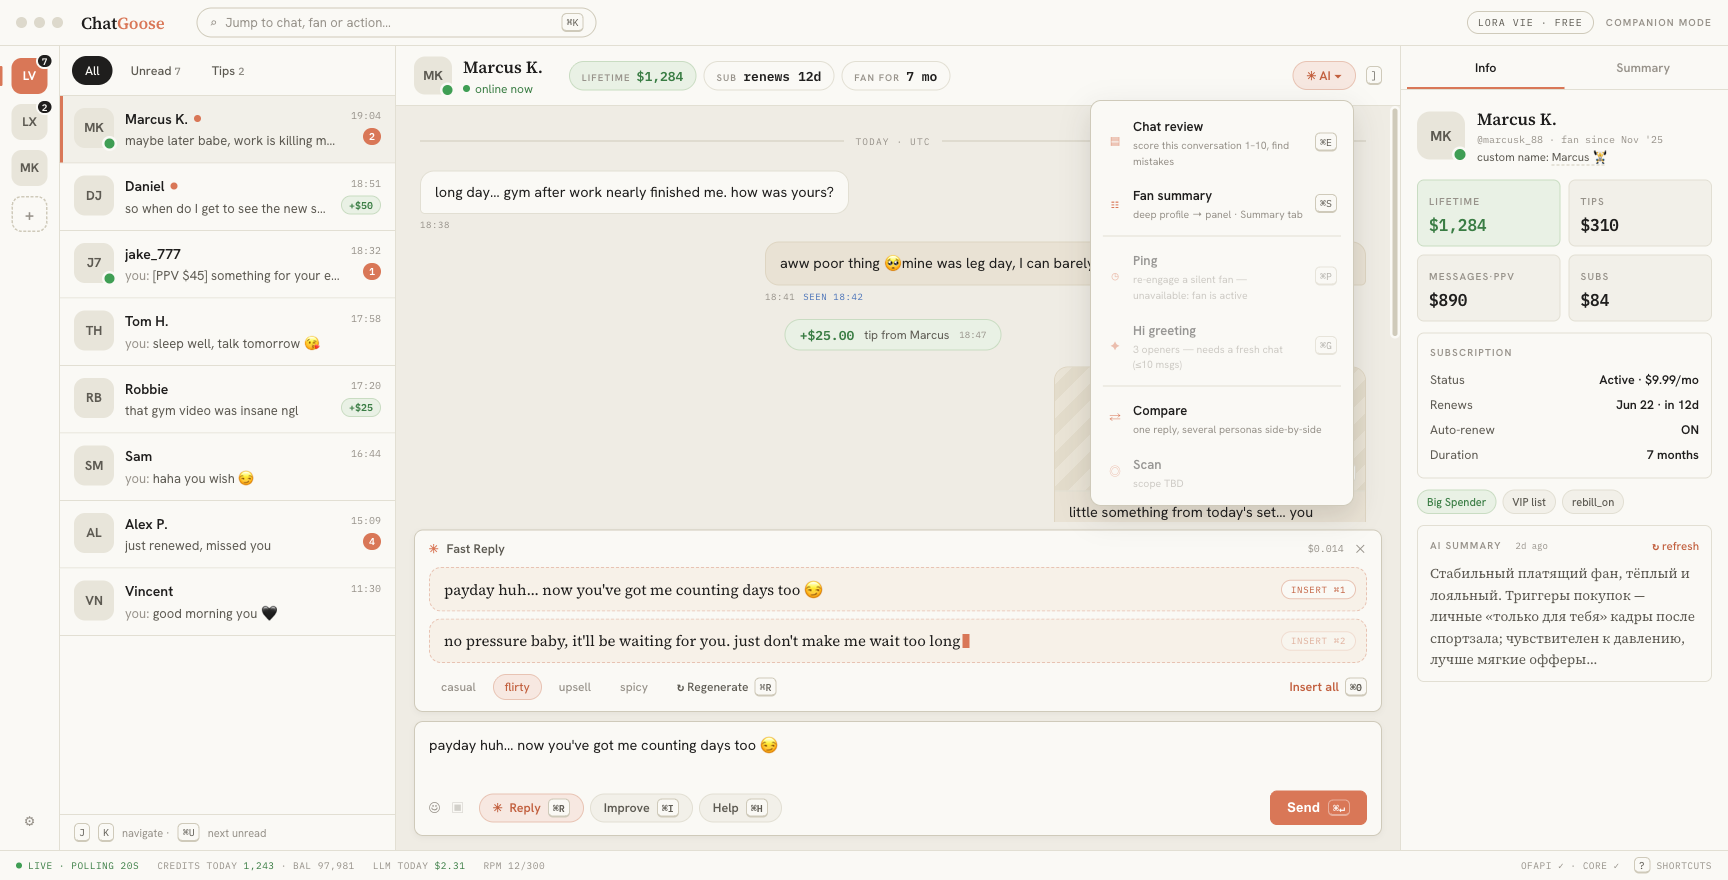
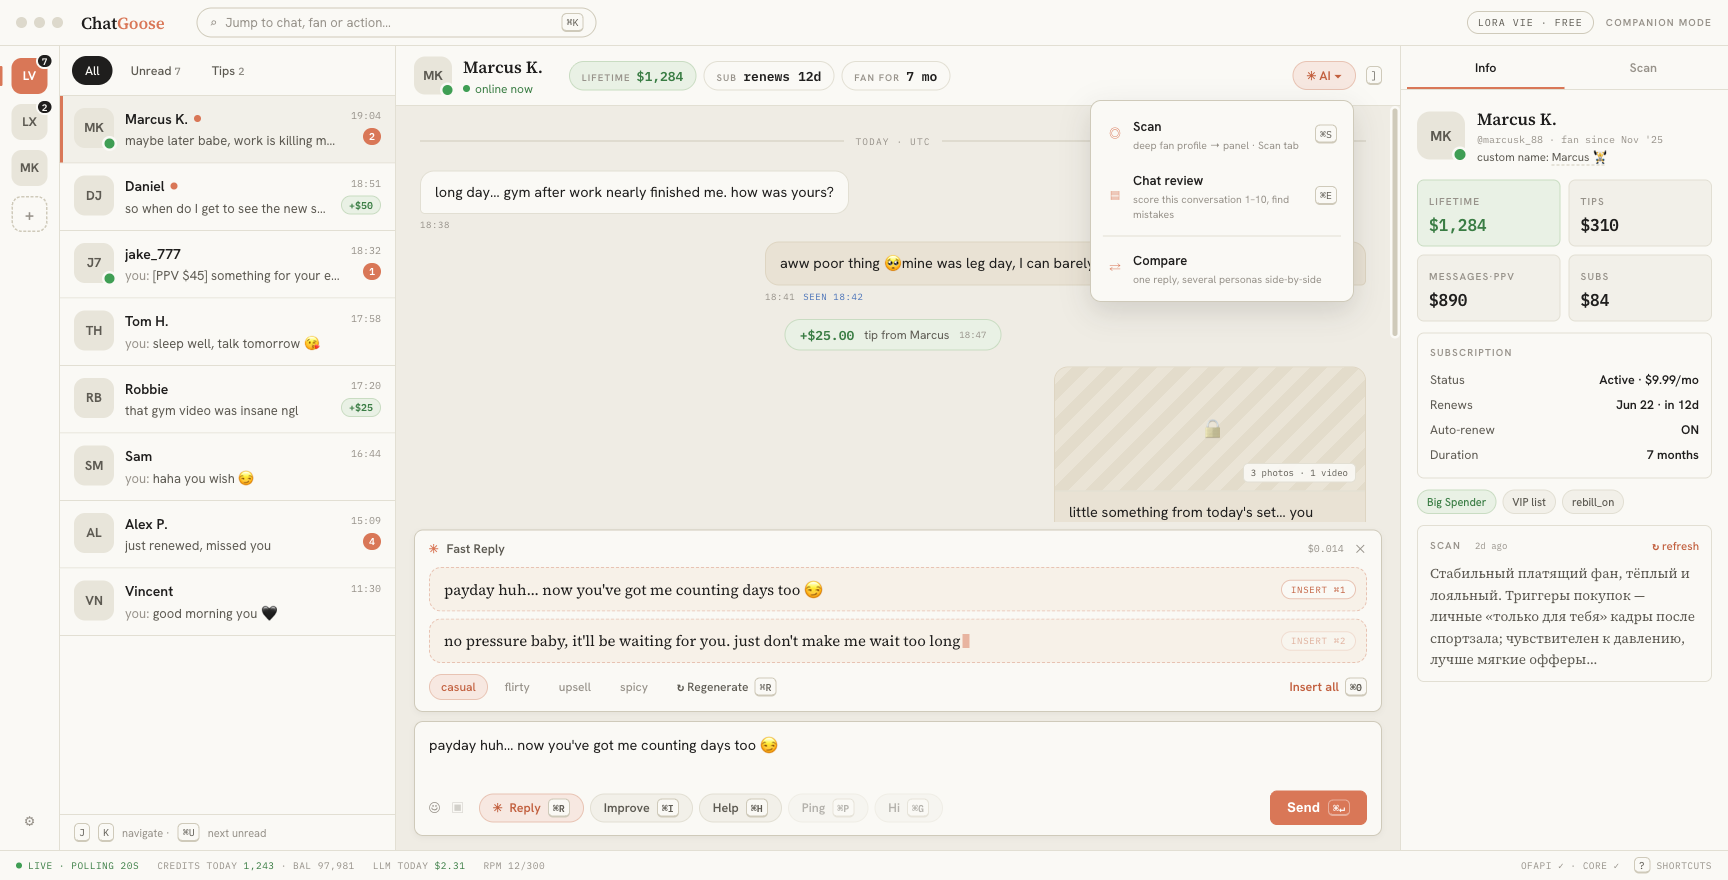
Ping/Hi back into the composer row; AI menu = rare-only; Scan naming adopted
Owner: Ping and Hi are frequent actions - now permanent composer pills
(dimmed with tooltip reason when legacy gates make them inapplicable).
Header AI menu shrinks to rare/deep: Scan, Chat review, Compare.
Scan mystery solved: it is the legacy UI label for fan-summary
(chatgoose src/content/button-bar.ts:10) - adopted as the UI name
(panel tab + card + menu); usage events still report 'fan-summary'.

diff --git a/docs/mockups/workspace.html b/docs/mockups/workspace.html
@@ -237,6 +237,8 @@
     border-radius:999px; padding:4px 13px; cursor:pointer}
   .aibtn:hover{color:var(--clay-deep); border-color:var(--clay-line); background:var(--clay-bg)}
   .aibtn.primary{color:var(--clay-deep); border-color:var(--clay-line); background:var(--clay-bg)}
+  .aibtn.dim{opacity:.45; cursor:default}
+  .aibtn.dim:hover{color:var(--t-mid); border-color:var(--line); background:var(--bg2)}
   .aibtn i{font-style:normal}
   .send{margin-left:auto; display:flex; align-items:center; gap:8px; background:var(--clay);
     color:#fff; font-weight:700; font-size:13.5px; border:1px solid var(--clay); border-radius:var(--rs);
@@ -416,16 +418,12 @@
         <div class="ch-actions"><span class="ai-menu-btn">✳ AI ▾</span><kbd>]</kbd></div>
       </header>
 
-      <!-- AI features menu (shown open for the mockup) -->
+      <!-- AI menu: rare/deep actions only (shown open for the mockup) -->
       <div class="ai-menu">
+        <div class="ai-item"><span class="gl">◎</span><span><span class="tt">Scan</span><span class="sub">deep fan profile → panel · Scan tab</span></span><kbd>⌘S</kbd></div>
         <div class="ai-item"><span class="gl">▤</span><span><span class="tt">Chat review</span><span class="sub">score this conversation 1–10, find mistakes</span></span><kbd>⌘E</kbd></div>
-        <div class="ai-item"><span class="gl">☷</span><span><span class="tt">Fan summary</span><span class="sub">deep profile → panel · Summary tab</span></span><kbd>⌘S</kbd></div>
-        <div class="ai-sep"></div>
-        <div class="ai-item dim"><span class="gl">◷</span><span><span class="tt">Ping</span><span class="sub">re-engage a silent fan — unavailable: fan is active</span></span><kbd>⌘P</kbd></div>
-        <div class="ai-item dim"><span class="gl">✦</span><span><span class="tt">Hi greeting</span><span class="sub">3 openers — needs a fresh chat (≤10 msgs)</span></span><kbd>⌘G</kbd></div>
         <div class="ai-sep"></div>
         <div class="ai-item"><span class="gl">⇄</span><span><span class="tt">Compare</span><span class="sub">one reply, several personas side-by-side</span></span></div>
-        <div class="ai-item dim"><span class="gl">◎</span><span><span class="tt">Scan</span><span class="sub">scope TBD</span></span></div>
       </div>
 
       <div class="thread">
@@ -523,6 +521,8 @@
             <span class="aibtn primary"><i>✳</i> Reply <kbd>⌘R</kbd></span>
             <span class="aibtn">Improve <kbd>⌘I</kbd></span>
             <span class="aibtn">Help <kbd>⌘H</kbd></span>
+            <span class="aibtn dim" title="Fan is active right now">Ping <kbd>⌘P</kbd></span>
+            <span class="aibtn dim" title="Needs a fresh chat (≤10 msgs)">Hi <kbd>⌘G</kbd></span>
           </div>
           <button class="send">Send <kbd>⌘↵</kbd></button>
         </div>
@@ -533,7 +533,7 @@
     <aside class="fanel">
       <div class="tabs">
         <div class="tab on">Info</div>
-        <div class="tab">Summary</div>
+        <div class="tab">Scan</div>
       </div>
       <div class="fp">
         <div class="fp-id">
@@ -567,7 +567,7 @@
         </div>
 
         <div class="card sumcard">
-          <div class="titlerow"><span class="cap">AI Summary</span><span class="sum-age" style="margin-left:6px">2d ago</span><span class="refresh">↻ refresh</span></div>
+          <div class="titlerow"><span class="cap">Scan</span><span class="sum-age" style="margin-left:6px">2d ago</span><span class="refresh">↻ refresh</span></div>
           <p>Стабильный платящий фан, тёплый и лояльный. Триггеры покупок — личные «только для тебя» кадры после спортзала; чувствителен к давлению, лучше мягкие офферы…</p>
         </div>
       </div>

diff --git a/docs/DESIGN.md b/docs/DESIGN.md
@@ -25,7 +25,7 @@ Status: Draft v1 — 2026-06-10. Binding companion to [PRD.md](PRD.md) §7 (prin
 - **Account rail (A):** avatars with unread badges; switch <500 ms (budget). Aggregate badge on app icon.
 - **Chat list:** ~340 px, rows ~64 px, virtualized. Minimal chrome (owner): no list title, no per-list sync label (freshness lives in the status bar only); a single quiet filter row — All / Unread / With tips; search/jump only via the ⌘K palette. "Fan waiting" indicator per PRD F2.
 - **Conversation:** virtualized list; PPV state badges unmissable (purchased = filled, not purchased = outline); tips highlighted; send-state glyphs (sending → sent → seen / failed / unconfirmed). Reply-to context inline.
-- **AI surface (redesigned 2026-06-10 after owner feedback).** Three tiers of access: **(1) composer pill row** for in-the-moment actions — `✳ Reply ⌘R · Improve ⌘I · Help ⌘H`, plus **contextual chips that appear only when relevant**: `Ping ⌘P` when the fan has been silent >5 days, `Hi ⌘G` on fresh chats (≤10 msgs); **(2) the `✳ AI` menu in the conversation header** — the full feature catalog with one-line descriptions and disabled-state reasons (Review ⌘E, Summary ⌘S → panel tab, Ping, Hi, Compare, Scan), so everything is discoverable without hotkeys; **(3) the ⌘K palette** (every action by name). Analysis outputs (Review, Help coaching) render in the dock as read-only serif cards — only true reply drafts get the insert affordance. Active state = dock above the composer, never a modal: suggestions render as **draft message bubbles** (serif text, dashed terracotta border) — **clicking the bubble inserts it** (the whole card is the target; a quiet `INSERT ⌘1` chip sits inside), `⌘0` inserts all parts; footer = tone pills (Fast Reply only) + Regenerate; cost appears top-right after completion; streaming = caret in the text; dismiss = ✕ / Esc. **No model/TTFT telemetry in the UI** — that lives in debug mode only.
+- **AI surface (redesigned 2026-06-10 after owner feedback).** Three tiers of access: **(1) composer pill row — all five frequent actions, always visible**: `✳ Reply ⌘R · Improve ⌘I · Help ⌘H · Ping ⌘P · Hi ⌘G` (owner: Ping/Hi are frequent — keep them at hand; when inapplicable they dim with the reason in a tooltip — fan-active for Ping, >10 msgs for Hi — matching legacy gates); **(2) the `✳ AI` menu in the conversation header — rare/deep actions only**: **Scan ⌘S** (deep fan profile → panel's Scan tab; "Scan" is the team's name for fan-summary, the legacy UI label — `chatgoose: src/content/button-bar.ts:10`), Chat review ⌘E, Compare; **(3) the ⌘K palette** (every action by name). Analysis outputs (Review, Help coaching) render in the dock as read-only serif cards — only true reply drafts get the insert affordance. Active state = dock above the composer, never a modal: suggestions render as **draft message bubbles** (serif text, dashed terracotta border) — **clicking the bubble inserts it** (the whole card is the target; a quiet `INSERT ⌘1` chip sits inside), `⌘0` inserts all parts; footer = tone pills (Fast Reply only) + Regenerate; cost appears top-right after completion; streaming = caret in the text; dismiss = ✕ / Esc. **No model/TTFT telemetry in the UI** — that lives in debug mode only.
 - **Fan panel:** collapsible (`]`), three tabs; money chips (total / tips / messages / subs), auto-renew-off ⇒ churn-risk badge.
 - Every surface has skeleton + empty + error states and a data-age indicator ("updated 12 s ago") — honesty over spinners (PRD §7.3).
 

diff --git a/docs/PRD.md b/docs/PRD.md
@@ -106,7 +106,7 @@ All features stream token-by-token into an AI panel docked above the composer; r
 1. **Fast Reply** [P2] — in-voice reply from last ~100 messages + spending/subscription context. Tones: casual / flirty / upsell / spicy; **default = casual** (owner 2026-06-10; legacy default was no-override — deliberate default change, tone texts themselves port verbatim); clicking the active tone deselects back to personality-only. Split mode (`[NEXT]`). Regenerate.
 2. **Improve Draft** [P2] — rewrite the chatter's draft in-character, preserving intent/facts/prices; draft may be written in Russian, output in fan's language. Single message out.
 3. **Help Me** [P2] — coaching: situational read + Engaging and Flirty ready-to-send suggestions (XML-parsed).
-4. **Fan Summary** [P4] — deep profile (~1500 msgs): dossier, psychology, stage/trajectory, communication, financial profile, open loops, strategy. **Output in Russian.** Cached per conversation with legacy invalidation rules (personality/model/data-verified); refresh on demand; central prefetch/sync via Agency Hub (core) from P4 — its fan-profile store already exists, so one chatter's summary is visible to all.
+4. **Fan Summary** [P4] — **UI label: "Scan"** (the team's established name; legacy button label for `fan-summary`, `chatgoose: src/content/button-bar.ts:10`; usage events still report feature id `fan-summary` — core's stray `scan` enum value stays unused). Deep profile (~1500 msgs): dossier, psychology, stage/trajectory, communication, financial profile, open loops, strategy. **Output in Russian.** Cached per conversation with legacy invalidation rules (personality/model/data-verified); refresh on demand; central prefetch/sync via Agency Hub (core) from P4 — its fan-profile store already exists, so one chatter's summary is visible to all.
 5. **Chat Review** [P4] — chatter performance rating 1–10 + evaluation + recommendations (XML-parsed), deep context, never cached.
 6. **Ping** [P4] — reactivation message; legacy segmentation ported verbatim: blocked if fan texted within 5 days ("still active — use Reply"); Segment A (≥3 fan texts, silent >5 d) references past topics; Segment B (thin history) warm low-pressure opener.
 7. **Hi Greeting** [P4] — 3 opener variants (`[VARIANT]`) for fresh conversations (≤10 total messages), username-aware.
